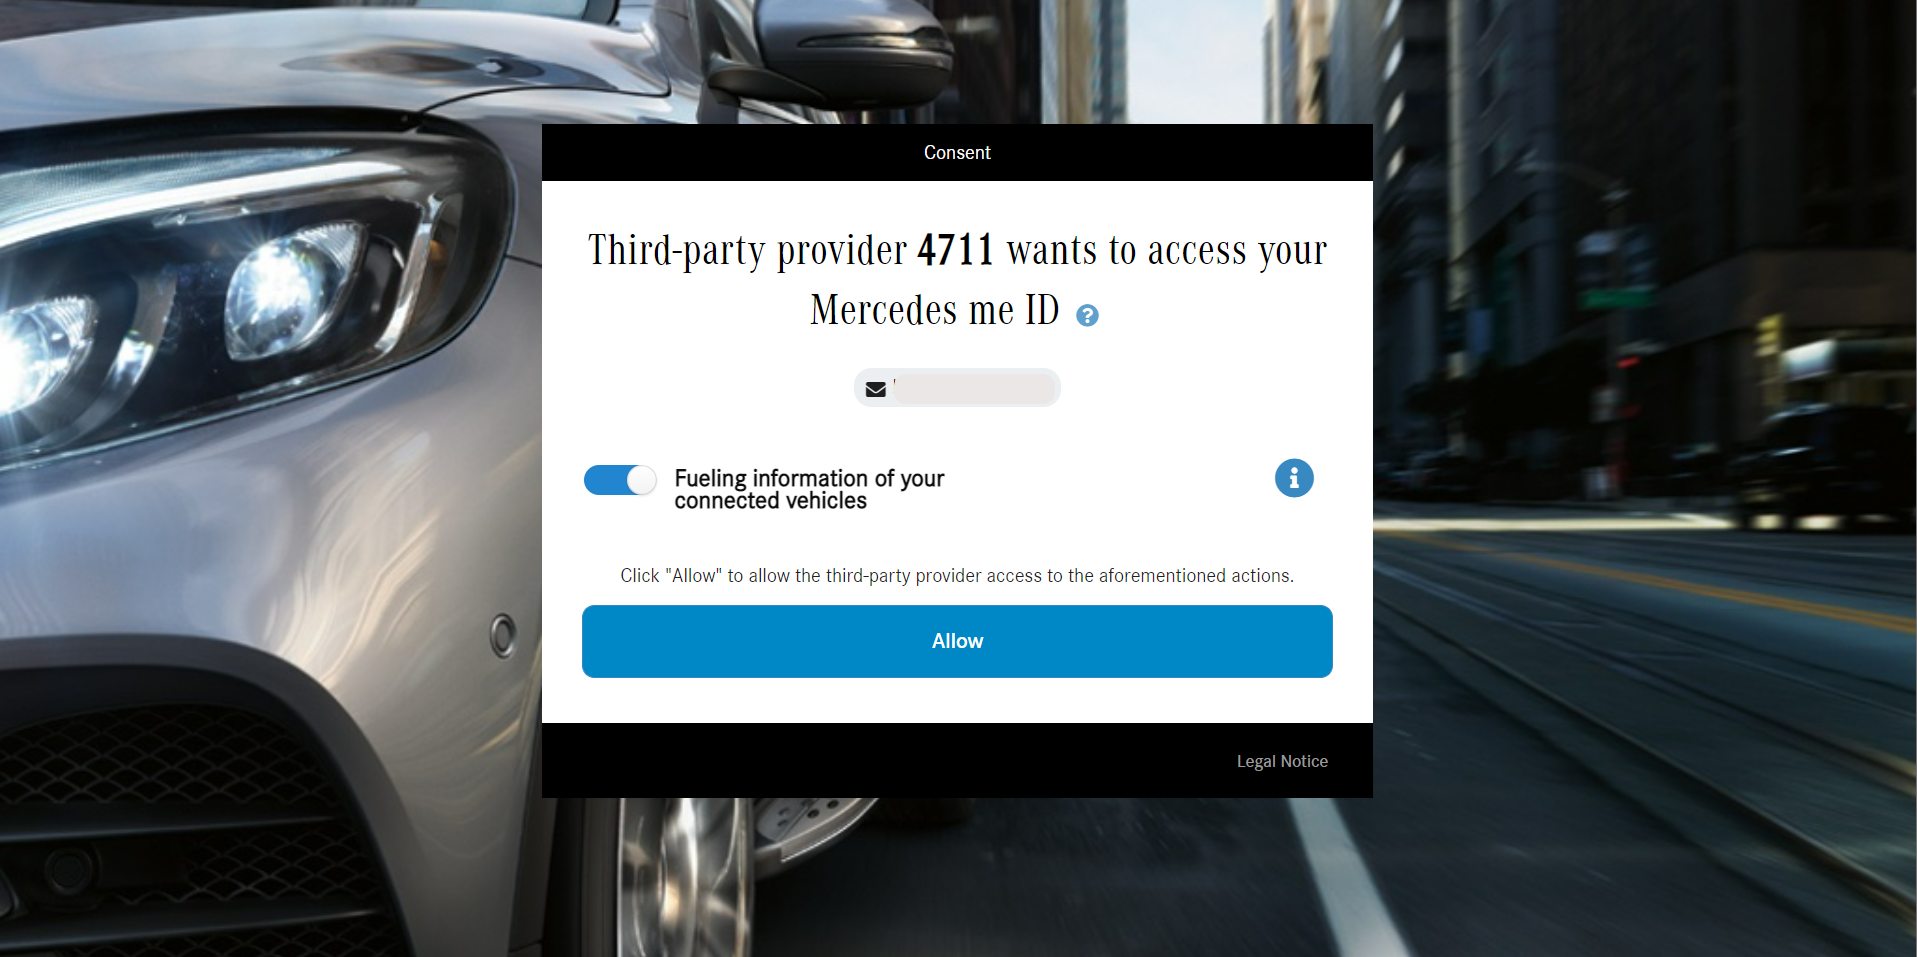
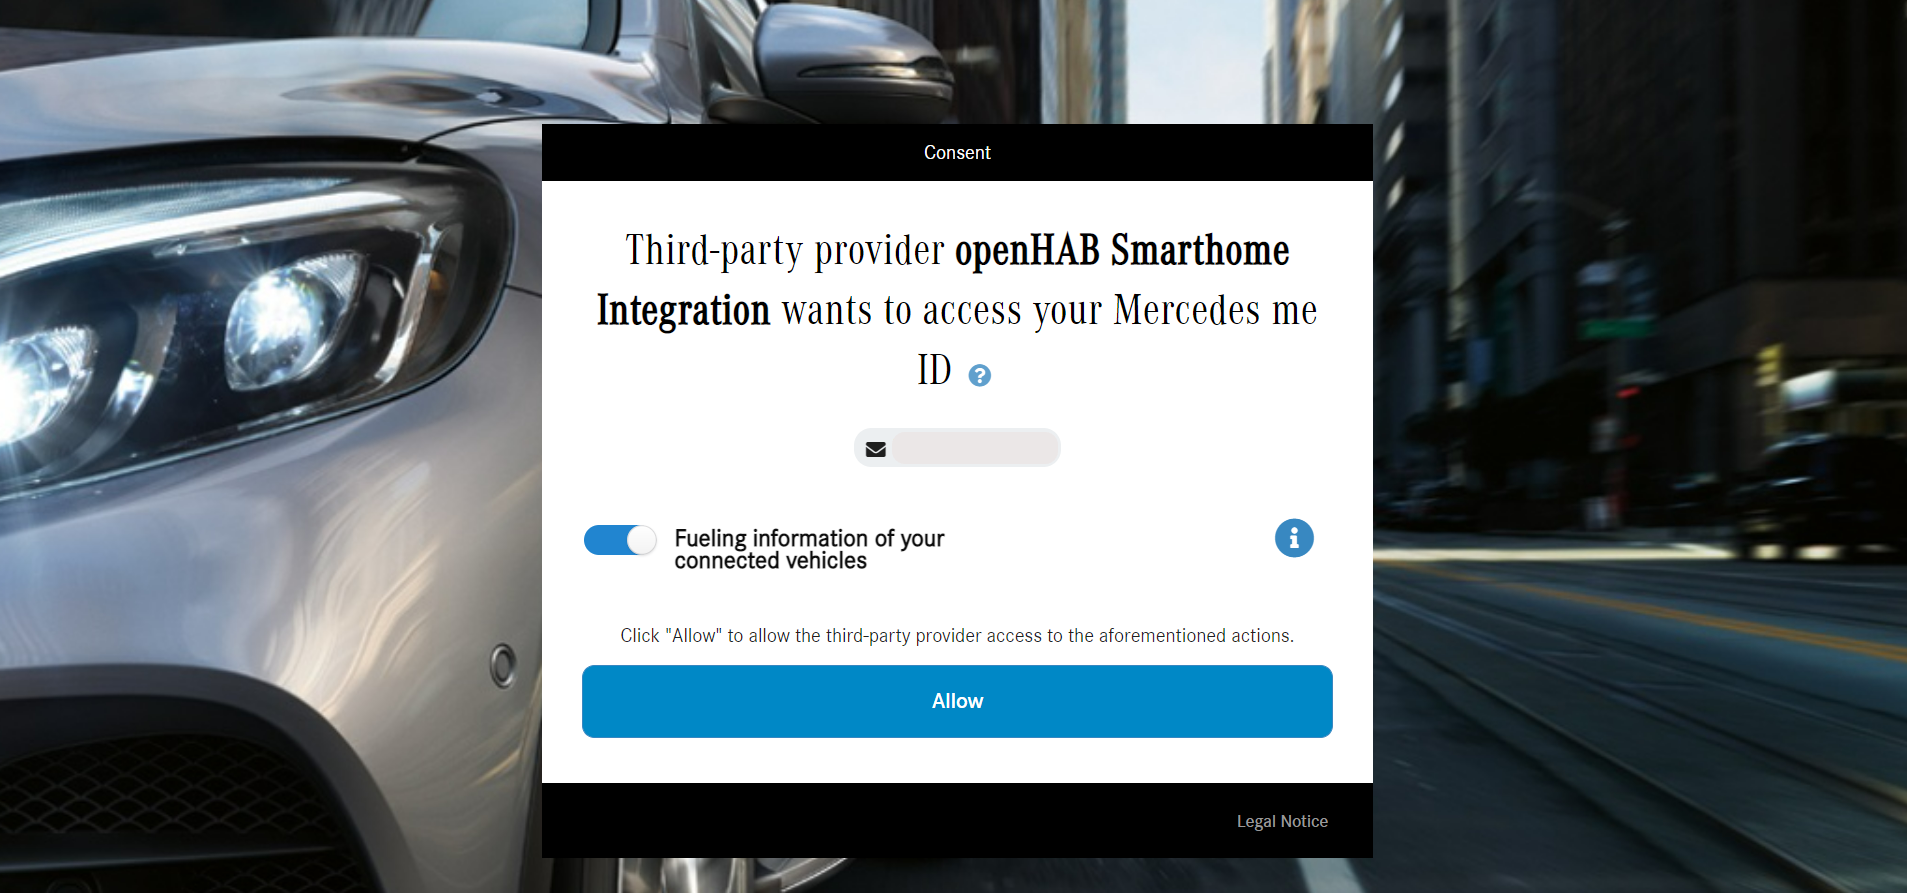
bugfixes for multi account usage

diff --git a/bundles/org.openhab.binding.mercedesme/src/main/java/org/openhab/binding/mercedesme/internal/VehicleHandler.java b/bundles/org.openhab.binding.mercedesme/src/main/java/org/openhab/binding/mercedesme/internal/VehicleHandler.java
@@ -42,6 +42,7 @@ import org.openhab.core.library.types.OnOffType;
 import org.openhab.core.library.types.QuantityType;
 import org.openhab.core.library.types.RawType;
 import org.openhab.core.storage.Storage;
+import org.openhab.core.storage.StorageService;
 import org.openhab.core.thing.Bridge;
 import org.openhab.core.thing.ChannelUID;
 import org.openhab.core.thing.Thing;
@@ -73,20 +74,21 @@ public class VehicleHandler extends BaseThingHandler {
     private Optional<ScheduledFuture<?>> refreshJob = Optional.empty();
     private Optional<AccountHandler> accountHandler = Optional.empty();;
     private Optional<VehicleConfiguration> config = Optional.empty();
-    private final HttpClient hc;
-    private final String uid;
     private Optional<ChannelStateMap> rangeFuel = Optional.empty();
     private Optional<ChannelStateMap> rangeElectric = Optional.empty();
-    private Storage<String> imageStorage;
+    private Optional<Storage<String>> imageStorage = Optional.empty();
+    private final HttpClient hc;
+    private final String uid;
+    private final StorageService storageService;
     private final MercedesMeCommandOptionProvider mmcop;
 
-    public VehicleHandler(Thing thing, HttpClientFactory hcf, String uid, Storage<String> is,
+    public VehicleHandler(Thing thing, HttpClientFactory hcf, String uid, StorageService storageService,
             MercedesMeCommandOptionProvider mmcop) {
         super(thing);
         hc = hcf.getCommonHttpClient();
         this.uid = uid;
         this.mmcop = mmcop;
-        this.imageStorage = is;
+        this.storageService = storageService;
         // https://github.com/jetty-project/jetty-reactive-httpclient/issues/33
         hc.getProtocolHandlers().remove(WWWAuthenticationProtocolHandler.NAME);
     }
@@ -98,40 +100,42 @@ public class VehicleHandler extends BaseThingHandler {
 
         } else {
             if (channelUID.getIdWithoutGroup().equals("image-view")) {
-                if (command.equals("Initialze")) {
+                if (imageStorage.isPresent()) {
+                    if (command.equals("Initialze")) {
+                        getImageResources();
+                    }
+                    String key = command.toFullString() + "_" + config.get().vin;
+                    String encodedImage = EMPTY;
+                    if (imageStorage.get().containsKey(key)) {
+                        encodedImage = imageStorage.get().get(key);
+                        logger.info("Image {} found in storage", key);
+                    } else {
+                        logger.info("Request Image {} ", key);
+                        encodedImage = getImage(command.toFullString());
+                        if (!encodedImage.equals(EMPTY)) {
+                            imageStorage.get().put(key, encodedImage);
+                        }
+                    }
+                    if (!encodedImage.equals(EMPTY)) {
+                        logger.info("Update data channel");
+                        RawType image = new RawType(Base64.getDecoder().decode(encodedImage), MIME_PNG);
+                        updateState(new ChannelUID(thing.getUID(), GROUP_IMAGE, "image-data"), image);
+                    } else {
+                        logger.info("Empty image");
+                    }
+                } else if (channelUID.getIdWithoutGroup().equals("clear-cache") && command.equals(OnOffType.ON)) {
+                    List<String> removals = new ArrayList<String>();
+                    imageStorage.get().getKeys().forEach(entry -> {
+                        if (entry.contains("_" + config.get().vin)) {
+                            removals.add(entry);
+                        }
+                    });
+                    removals.forEach(entry -> {
+                        imageStorage.get().remove(entry);
+                    });
+                    updateState(new ChannelUID(thing.getUID(), GROUP_IMAGE, "clear-cache"), OnOffType.OFF);
                     getImageResources();
                 }
-                String key = command.toFullString() + "_" + config.get().vin;
-                String encodedImage = EMPTY;
-                if (imageStorage.containsKey(key)) {
-                    encodedImage = imageStorage.get(key);
-                    logger.info("Image {} found in storage", key);
-                } else {
-                    logger.info("Request Image {} ", key);
-                    encodedImage = getImage(command.toFullString());
-                    if (!encodedImage.equals(EMPTY)) {
-                        imageStorage.put(key, encodedImage);
-                    }
-                }
-                if (!encodedImage.equals(EMPTY)) {
-                    logger.info("Update data channel");
-                    RawType image = new RawType(Base64.getDecoder().decode(encodedImage), MIME_PNG);
-                    updateState(new ChannelUID(thing.getUID(), GROUP_IMAGE, "image-data"), image);
-                } else {
-                    logger.info("Empty image");
-                }
-            } else if (channelUID.getIdWithoutGroup().equals("clear-cache") && command.equals(OnOffType.ON)) {
-                List<String> removals = new ArrayList<String>();
-                imageStorage.getKeys().forEach(entry -> {
-                    if (entry.contains("_" + config.get().vin)) {
-                        removals.add(entry);
-                    }
-                });
-                removals.forEach(entry -> {
-                    imageStorage.remove(entry);
-                });
-                updateState(new ChannelUID(thing.getUID(), GROUP_IMAGE, "clear-cache"), OnOffType.OFF);
-                getImageResources();
             }
         }
     }
@@ -147,13 +151,15 @@ public class VehicleHandler extends BaseThingHandler {
                 accountHandler = Optional.of((AccountHandler) handler);
                 startSchedule(config.get().refreshInterval);
                 updateStatus(ThingStatus.ONLINE);
-
+                if (!config.get().vin.equals(NOT_SET)) {
+                    imageStorage = Optional.of(storageService.getStorage(BINDING_ID + "_" + config.get().vin));
+                    if (!imageStorage.get().containsKey(EXT_IMG_RES + config.get().vin)) {
+                        getImageResources();
+                    }
+                    setImageOtions();
+                }
                 // check Image resources
                 updateState(new ChannelUID(thing.getUID(), GROUP_IMAGE, "clear-cache"), OnOffType.OFF);
-                if (!imageStorage.containsKey(EXT_IMG_RES + config.get().vin)) {
-                    getImageResources();
-                }
-                setImageOtions();
             } else {
                 updateStatus(ThingStatus.OFFLINE, ThingStatusDetail.BRIDGE_UNINITIALIZED, "BridgeHanlder missing");
                 logger.warn("Bridge Handler null");
@@ -243,7 +249,7 @@ public class VehicleHandler extends BaseThingHandler {
         try {
             cr = req.send();
             if (cr.getStatus() == 200) {
-                imageStorage.put(EXT_IMG_RES + config.get().vin, cr.getContentAsString());
+                imageStorage.get().put(EXT_IMG_RES + config.get().vin, cr.getContentAsString());
                 setImageOtions();
             } else {
                 logger.info("Failed to get image resources {} {}", cr.getStatus(), cr.getContentAsString());
@@ -259,8 +265,8 @@ public class VehicleHandler extends BaseThingHandler {
             return EMPTY;
         }
         String imageId = EMPTY;
-        if (imageStorage.containsKey(EXT_IMG_RES + config.get().vin)) {
-            String resources = imageStorage.get(EXT_IMG_RES + config.get().vin);
+        if (imageStorage.get().containsKey(EXT_IMG_RES + config.get().vin)) {
+            String resources = imageStorage.get().get(EXT_IMG_RES + config.get().vin);
             JSONObject jo = new JSONObject(resources);
             if (jo.has(key)) {
                 imageId = jo.getString(key);
@@ -289,8 +295,8 @@ public class VehicleHandler extends BaseThingHandler {
 
     private void setImageOtions() {
         List<CommandOption> options = new ArrayList<CommandOption>();
-        if (imageStorage.containsKey(EXT_IMG_RES + config.get().vin)) {
-            String resources = imageStorage.get(EXT_IMG_RES + config.get().vin);
+        if (imageStorage.get().containsKey(EXT_IMG_RES + config.get().vin)) {
+            String resources = imageStorage.get().get(EXT_IMG_RES + config.get().vin);
             JSONObject jo = new JSONObject(resources);
             jo.keySet().forEach(entry -> {
                 CommandOption co = new CommandOption(entry, null);
@@ -310,7 +316,7 @@ public class VehicleHandler extends BaseThingHandler {
         ContentResponse cr;
         try {
             cr = req.send();
-            logger.info("Response {} {}", cr.getStatus(), cr.getContentAsString());
+            logger.info("{} Response {} {}", this.getThing().getLabel(), cr.getStatus(), cr.getContentAsString());
             if (cr.getStatus() == 200) {
                 JSONArray ja = new JSONArray(cr.getContentAsString());
                 ja.forEach(entry -> {

diff --git a/bundles/org.openhab.binding.mercedesme/src/main/java/org/openhab/binding/mercedesme/internal/Constants.java b/bundles/org.openhab.binding.mercedesme/src/main/java/org/openhab/binding/mercedesme/internal/Constants.java
@@ -15,7 +15,6 @@ package org.openhab.binding.mercedesme.internal;
 import javax.measure.Unit;
 import javax.measure.quantity.Length;
 
-import org.eclipse.jdt.annotation.NonNull;
 import org.openhab.core.library.unit.MetricPrefix;
 import org.openhab.core.library.unit.SIUnits;
 import org.openhab.core.thing.ThingTypeUID;
@@ -39,49 +38,49 @@ public class Constants {
     public static final ThingTypeUID THING_TYPE_HYBRID = new ThingTypeUID(BINDING_ID, HYBRID);
     public static final ThingTypeUID THING_TYPE_BEV = new ThingTypeUID(BINDING_ID, BEV);
 
-    public static String GROUP_RANGE = "range";
-    public static String GROUP_DOORS = "doors";
-    public static String GROUP_WINDOWS = "windows";
-    public static String GROUP_LOCK = "lock";
-    public static String GROUP_LIGHTS = "lights";
-    public static String GROUP_LOCATION = "location";
-    public static String GROUP_IMAGE = "image";
+    public static final String GROUP_RANGE = "range";
+    public static final String GROUP_DOORS = "doors";
+    public static final String GROUP_WINDOWS = "windows";
+    public static final String GROUP_LOCK = "lock";
+    public static final String GROUP_LIGHTS = "lights";
+    public static final String GROUP_LOCATION = "location";
+    public static final String GROUP_IMAGE = "image";
 
-    public static String MB_AUTH_URL = "https://id.mercedes-benz.com/as/authorization.oauth2";
-    public static String MB_TOKEN_URL = "https://id.mercedes-benz.com/as/token.oauth2";
-    public static String CALLBACK_ENDPOINT = "/mb-callback";
-    public static String OAUTH_CLIENT_NAME = "#byocar";
+    public static final String MB_AUTH_URL = "https://id.mercedes-benz.com/as/authorization.oauth2";
+    public static final String MB_TOKEN_URL = "https://id.mercedes-benz.com/as/token.oauth2";
+    public static final String CALLBACK_ENDPOINT = "/mb-callback";
+    public static final String OAUTH_CLIENT_NAME = "#byocar";
 
     // https://developer.mercedes-benz.com/products/electric_vehicle_status/docs
-    public static String SCOPE_EV = "mb:vehicle:mbdata:evstatus";
+    public static final String SCOPE_EV = "mb:vehicle:mbdata:evstatus";
     // https://developer.mercedes-benz.com/products/fuel_status/docs
-    public static String SCOPE_FUEL = "mb:vehicle:mbdata:fuelstatus";
+    public static final String SCOPE_FUEL = "mb:vehicle:mbdata:fuelstatus";
     // https://developer.mercedes-benz.com/products/pay_as_you_drive_insurance/docs
-    public static String SCOPE_ODO = "mb:vehicle:mbdata:payasyoudrive";
+    public static final String SCOPE_ODO = "mb:vehicle:mbdata:payasyoudrive";
     // https://developer.mercedes-benz.com/products/vehicle_lock_status/docs
-    public static String SCOPE_LOCK = "mb:vehicle:mbdata:vehiclelock";
+    public static final String SCOPE_LOCK = "mb:vehicle:mbdata:vehiclelock";
     // https://developer.mercedes-benz.com/products/vehicle_status/docs
-    public static String SCOPE_STATUS = "mb:vehicle:mbdata:vehiclestatus";
-    public static String SCOPE_OFFLINE = "offline_access";
+    public static final String SCOPE_STATUS = "mb:vehicle:mbdata:vehiclestatus";
+    public static final String SCOPE_OFFLINE = "offline_access";
 
-    public static String BASE_URL = "https://api.mercedes-benz.com/vehicledata/v2";
-    public static String ODO_URL = BASE_URL + "/vehicles/%s/containers/payasyoudrive";
-    public static String STATUS_URL = BASE_URL + "/vehicles/%s/containers/vehiclestatus";
-    public static String LOCK_URL = BASE_URL + "/vehicles/%s/containers/vehiclelockstatus";
-    public static String FUEL_URL = BASE_URL + "/vehicles/%s/containers/fuelstatus";
-    public static String EV_URL = BASE_URL + "/vehicles/%s/containers/electricvehicle";
+    public static final String BASE_URL = "https://api.mercedes-benz.com/vehicledata/v2";
+    public static final String ODO_URL = BASE_URL + "/vehicles/%s/containers/payasyoudrive";
+    public static final String STATUS_URL = BASE_URL + "/vehicles/%s/containers/vehiclestatus";
+    public static final String LOCK_URL = BASE_URL + "/vehicles/%s/containers/vehiclelockstatus";
+    public static final String FUEL_URL = BASE_URL + "/vehicles/%s/containers/fuelstatus";
+    public static final String EV_URL = BASE_URL + "/vehicles/%s/containers/electricvehicle";
 
     // https://developer.mercedes-benz.com/content-page/api_migration_guide
-    public static String IMAGE_BASE_URL = "https://api.mercedes-benz.com/vehicle_images/v2";
-    public static String IMAGE_EXTERIOR_RESOURCE_URL = IMAGE_BASE_URL + "/vehicles/%s";
+    public static final String IMAGE_BASE_URL = "https://api.mercedes-benz.com/vehicle_images/v2";
+    public static final String IMAGE_EXTERIOR_RESOURCE_URL = IMAGE_BASE_URL + "/vehicles/%s";
 
-    public static String SPACE = " ";
+    public static final String SPACE = " ";
     public static final String EMPTY = "";
 
-    public static String HTTP = "http://";
+    public static final String HTTP = "http://";
     public static final String LOOPBACK_ADDRESS = "lo";
     public static final String COLON = ":";
-    public static final @NonNull String NOT_SET = "not set";
+    public static final String NOT_SET = "not set";
 
     public static final String CODE = "code";
 

diff --git a/bundles/org.openhab.binding.mercedesme/src/main/java/org/openhab/binding/mercedesme/internal/AccountHandler.java b/bundles/org.openhab.binding.mercedesme/src/main/java/org/openhab/binding/mercedesme/internal/AccountHandler.java
@@ -18,7 +18,6 @@ import java.util.Optional;
 import org.eclipse.jdt.annotation.NonNullByDefault;
 import org.openhab.binding.mercedesme.internal.server.CallbackServer;
 import org.openhab.binding.mercedesme.internal.server.Utils;
-import org.openhab.binding.mercedesme.internal.utils.TokenWrapper;
 import org.openhab.core.auth.client.oauth2.AccessTokenRefreshListener;
 import org.openhab.core.auth.client.oauth2.AccessTokenResponse;
 import org.openhab.core.auth.client.oauth2.OAuthFactory;
@@ -45,7 +44,6 @@ public class AccountHandler extends BaseBridgeHandler implements AccessTokenRefr
     private HttpClientFactory httpClientFactory;
     private Optional<CallbackServer> server = Optional.empty();
     private Optional<AccountConfiguration> config = Optional.empty();
-    private TokenWrapper tw = new TokenWrapper();
 
     private final OAuthFactory oAuthFactory;
     private final Storage<String> storage;
@@ -152,21 +150,31 @@ public class AccountHandler extends BaseBridgeHandler implements AccessTokenRefr
      */
     @Override
     public void onAccessTokenResponse(AccessTokenResponse tokenResponse) {
-        tw.setToken(tokenResponse);
+        logger.info("{} received new Access Token {}", config.get().callbackPort, tokenResponse.toString());
         if (!tokenResponse.isExpired(LocalDateTime.now(), 10)) {
             updateStatus(ThingStatus.ONLINE);
         }
         if (tokenResponse.getRefreshToken() != null) {
+            logger.info("{} store token in {}", config.get().callbackPort, tokenStorageKey);
             String tokenSerial = Utils.toString(tokenResponse);
             storage.put(tokenStorageKey, tokenSerial);
         }
     }
 
     public String getToken() {
-        return server.get().getToken();
+        if (server.isEmpty()) {
+            return Constants.EMPTY;
+        } else {
+            return server.get().getToken();
+        }
     }
 
     public String getImageApiKey() {
         return config.get().imageApiKey;
+    }
+
+    @Override
+    public String toString() {
+        return Integer.toString(config.get().callbackPort);
     }
 }

diff --git a/bundles/org.openhab.binding.mercedesme/src/main/java/org/openhab/binding/mercedesme/internal/server/CallbackServer.java b/bundles/org.openhab.binding.mercedesme/src/main/java/org/openhab/binding/mercedesme/internal/server/CallbackServer.java
@@ -57,8 +57,9 @@ public class CallbackServer {
 
     public CallbackServer(AccessTokenRefreshListener l, HttpClient hc, OAuthFactory oAuthFactory,
             AccountConfiguration config, String callbackUrl) {
-        oacs = oAuthFactory.createOAuthClientService(Constants.OAUTH_CLIENT_NAME, Constants.MB_TOKEN_URL,
-                Constants.MB_AUTH_URL, config.clientId, config.clientSecret, config.getScope(), false);
+        oacs = oAuthFactory.createOAuthClientService(Constants.OAUTH_CLIENT_NAME + config.callbackPort,
+                Constants.MB_TOKEN_URL, Constants.MB_AUTH_URL, config.clientId, config.clientSecret, config.getScope(),
+                false);
         authMap.put(Integer.valueOf(config.callbackPort), oacs);
         serverMap.put(Integer.valueOf(config.callbackPort), this);
         httpClient = hc;
@@ -171,11 +172,13 @@ public class CallbackServer {
      */
     public static void callback(int port, String code) {
         logger.info("Callback from Servlet {} {}", port, code);
+        logger.info("Server Map {}", serverMap);
         OAuthClientService oacs = authMap.get(port);
         try {
             logger.info("Get token from code {}", code);
             // get CallbackServer instance
             CallbackServer srv = serverMap.get(port);
+            logger.info("Deliver token to {}", srv);
             AccessTokenResponse atr = oacs.getAccessTokenResponseByAuthorizationCode(code, srv.callbackUrl);
             logger.info("Upadte server token {}", atr.getAccessToken());
             srv.token = Optional.of(atr);

diff --git a/bundles/org.openhab.binding.mercedesme/src/main/java/org/openhab/binding/mercedesme/internal/MercedesMeHandlerFactory.java b/bundles/org.openhab.binding.mercedesme/src/main/java/org/openhab/binding/mercedesme/internal/MercedesMeHandlerFactory.java
@@ -51,17 +51,17 @@ public class MercedesMeHandlerFactory extends BaseThingHandlerFactory {
     private final OAuthFactory oAuthFactory;
     private final HttpClientFactory httpClientFactory;
     private final Storage<String> tokenStorage;
-    private final Storage<String> imageStorage;
     private final MercedesMeCommandOptionProvider mmcop;
+    private final StorageService storageService;
 
     @Activate
     public MercedesMeHandlerFactory(@Reference OAuthFactory oAuthFactory, @Reference HttpClientFactory hcf,
             @Reference StorageService storageService, final @Reference MercedesMeCommandOptionProvider cop) {
         this.oAuthFactory = oAuthFactory;
         this.httpClientFactory = hcf;
+        this.storageService = storageService;
         mmcop = cop;
         tokenStorage = storageService.getStorage(Constants.BINDING_ID);
-        imageStorage = storageService.getStorage(Constants.BINDING_ID + "_images");
     }
 
     @Override
@@ -75,6 +75,6 @@ public class MercedesMeHandlerFactory extends BaseThingHandlerFactory {
         if (THING_TYPE_ACCOUNT.equals(thingTypeUID)) {
             return new AccountHandler((Bridge) thing, httpClientFactory, oAuthFactory, tokenStorage);
         }
-        return new VehicleHandler(thing, httpClientFactory, thingTypeUID.getId(), imageStorage, mmcop);
+        return new VehicleHandler(thing, httpClientFactory, thingTypeUID.getId(), storageService, mmcop);
     }
 }

diff --git a/bundles/org.openhab.binding.mercedesme/README.md b/bundles/org.openhab.binding.mercedesme/README.md
@@ -41,7 +41,7 @@ Perform the following steps to obtain the configuration data and perfrom the aut
     - Pay as you drive insurance
     - Electric Vehcile Status
     - Fuel Status
-8. Select also to _Vehicle images_. Select the _Basic Trial_ version. The images will be stored so the API is used just a few times.
+8. Subscribe also to _Vehicle images_. Select the _Basic Trial_ version. The images will be stored so the API is used just a few times.
 9. Press _Subscribe_ button
 10. Generate the project credentials - you need them to configuree your Bridge from 1.
 11. Get the `Client ID` and `Client Secret` and put them into the Bridge configuration - save
